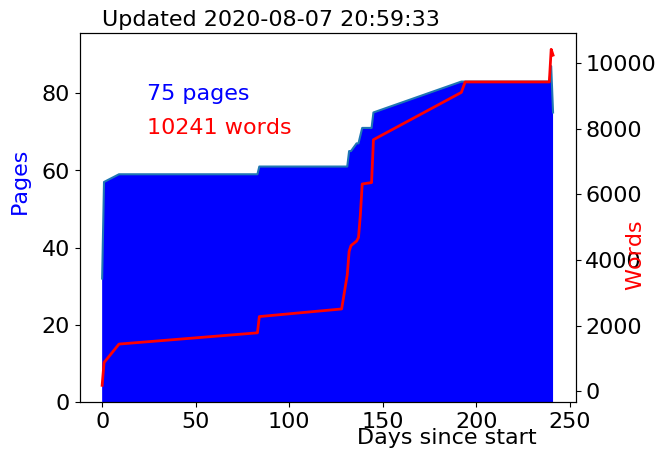
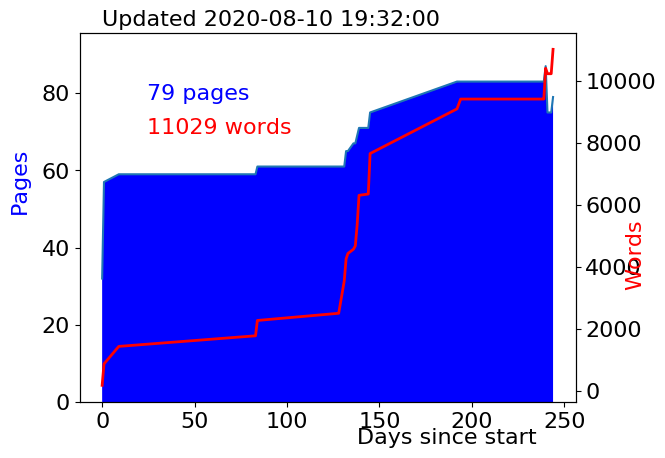
ID done, need to finish MS

diff --git a/Chapters/ATLAS.tex b/Chapters/ATLAS.tex
@@ -1,6 +1,6 @@
 \chapter{The ATLAS Detector}
 
-The \ac{ATLAS} detector is a cylindrical general purpose particle detector designed to measure the products of $\sqrt{s} = 14 \TeV$ proton-proton collisions at the \ac{LHC}. It consists of three major sub-detectors: closest to the beamline is the the \ac{ID}, which measures the trajectories of charge particles, followed by the Calorimeters, which measure the energies of electromagnetic and hadronically interacting particles, and finally the \ac{MS} which measures the trajectories of muons. The \ac{ID} is surrounded by a super conducting solenoidal magnet that provides a uniform $2\textrm{T}$ magnetic field, enabling measurement of particles' charge and momentum, and a toroidal magnet surrounds \ac{MS}, allowing for charge and momentum measurements of muons. In general, each subdetector consists of a barrel detector parallel to the beampipe and end-cap detectors perpendicular to the beampipe. \cite{atlas-overview}
+The \ac{ATLAS} detector is a cylindrical general purpose particle detector designed to measure the products of $\sqrt{s} = 14 \TeV$ proton-proton collisions at the \ac{LHC}. It consists of three major sub-detectors: closest to the beamline is the the \ac{ID}, which measures the trajectories of charge particles, followed by the Calorimeters, which measure the energies of electromagnetic and hadronically interacting particles, and finally the \ac{MS} which measures the trajectories of muons. The \ac{ID} is surrounded by a super conducting solenoidal magnet that provides a uniform $2$T magnetic field, enabling measurement of particles' charge and momentum, and a toroidal magnet surrounds \ac{MS}, allowing for charge and momentum measurements of muons. In general, each subdetector consists of a barrel detector parallel to the beampipe and end-cap detectors perpendicular to the beampipe. \cite{atlas-overview}
 
 A schematic of the \ac{ATLAS} detector is shown in \autoref{fig:atlas-schematic}.
 
@@ -30,12 +30,14 @@ A particle's momentum will generally be described in terms of its \pT, its momen
 
 %USED ATLAS-overview.pdf
 \section{Inner Detector}
-The Inner Detector measures the trajectories of charged particles resulting from \ac{LHC} collisions. The \ac{ID} covers the region with $|\eta| < 2.5$, measuring approximately $1000$ particles per bunch crossing. In order to achieve the momentum and vertex resolution required to achieve \ac{ATLAS}'s physics goals three subdetectors are used: the Pixel detector, the \ac{SCT}, and the \ac{TRT}. The Pixel and \ac{SCT} detectors are used for high granularity precision tracking and the \ac{TRT} is used to distinguish electrons from converted photons. All of this is immersed in a $2T$ magnetic field, curving charged particles in proportion to its momentum.
+The Inner Detector measures the trajectories of charged particles resulting from \ac{LHC} collisions. The \ac{ID} covers the region with $|\eta| < 2.5$, measuring approximately $1000$ particles per bunch crossing. In order to achieve the momentum and vertex resolution required to achieve \ac{ATLAS}'s physics goals three subdetectors are used: the Pixel detector, the \ac{SCT}, and the \ac{TRT}. The Pixel and \ac{SCT} detectors are used for high granularity precision tracking and the \ac{TRT} is used to distinguish electrons from converted photons. All of this is immersed in a $2$T magnetic field, curving charged particles in proportion to its momentum in the $\phi$ direction.
 
 \todo{describe conversions somewhere... Maybe in particle descriptions in theory?}
 
 
 The \pt resolution of the \ac{ID} scales with track \pt. Higher \pt tracks are less curved, so the measurement resolution is worse. In the \ac{ATLAS} \ac{ID}, the \pt resolution  $0.05\% \times \pt$ with a $1\%$ constant term. The constant term describes measurement uncertainties that do not scale with momentum or energy, such as material imperfections, non-uniform detector response, or other constant measurement issues and is added in quadrature ($\oplus$) with the stochastic term.
+
+The combination of thre three trackers with radii ranging from 32.33 mm to 1082mm enable robust and precise pattern recognition. The Pixel detector enables secondary vertex measurements, and combined with the \ac{SCT} enables impact parameter measurement and vertexing for heavy-flavor jet and $\tau$-lepton tagging. the The \ac{TRT} has lower precision per point, but measures a longer track and contributes signficantly to the momentum measurement.
 
 
 A schematic of the \ac{ID} can be seen in \autoref{fig:atlas-id} and a detailed distribution of the various subdetectors is shown in \autoref{fig:atlas-id-layers}. 
@@ -53,15 +55,35 @@ A schematic of the \ac{ID} can be seen in \autoref{fig:atlas-id} and a detailed 
 \begin{figure}[htbp]
 \centering
 \includegraphics[width=.8\textwidth]{figures/Detector/atlas-id-layers.png}
-\caption{A schematic of the \ac{ATLAS} \ac{ID} shown in the $r-z$ plane. \cite{id-cutaway}}
+\caption{A schematic of the \ac{ATLAS} \ac{ID} shown in the $R-z$ plane. \cite{id-cutaway}}
 \label{fig:atlas-id-layers}
 \end{figure}
 
+\subsection{Silicon Detectors}
+
+
+
 \subsection{The Pixel Detector}
-\subsubsection{Hit Reconstruction}
+
+The Pixel detector is the closest one to the beam and have the highest granularity. The pixels are arranged parallel to the beam axis in concentric cylindrical layers in the barrel and perpendicular to the beam axis on disks in the endcap regions. The current Pixel detector consists of the Run 1 detector with the \ac{IBL} installed closed to the beam pipe. 
+
+The Run 1 Pixel detector has 3 concentric cylindrical layers in the barrel and 3 disks in the endcap. It is composed of 1744 pixel sensors, each with 47232 pixels. Each pixel is identical has minimum size of $R-\phi \times z = 50 \times 400 \mu \textrm{m}^{2}$ (increasing to $R-\phi \times z = 50 \times 600 \mu \textrm{m}^{2}$ near a front-end chip). In the barrel, they have accuracy of $10 \mu \textrm{m}$ in $R-\phi$ and $115 \mu \textrm{m}$ in $z$, and in the endcaps they have accuracy of $10 \mu \textrm{m}$ in $R-\phi$ and $115 \mu \textrm{m}$ in $R$ and the detector has 80.4 million pixels and readout channels. 
+
+The \ac{IBL} is the inner most Pixel layer installed for Run 2 33.2 mm away from a new, narrower beampipe. A closer detector layer enables better impact parameter resolution as well as providing extra radiation shielding for the former closest Pixel layer (called the B-layer). The \ac{IBL} is composed of 12 million smaller pixels, $R-\phi \times z = 50 \times 250 \mu \textrm{m}^{2}$, assembled on 14 staves, with a resolution of $8 \mu\textrm{m}$ in $R-\phi$ and $40 \mu\textrm{m}$.
+
+The two innermost detectors, the Pixel and \ac{SCT} detectors, are made of silicon, the preferred tracking medium of particle physics detectors. The \ac{ATLAS} pixels are n-type semiconductors (impurities have been added to increase the number of potential electron charge carriers) with a voltage applied (150-600V in the Pixel detector).  When a charged particle interacts with a silicon detector layer, electron-hole pairs are created and these pairs drift toward the readout chips in the magnetic field. If enough of these pairs are created such that the signal becomes greater than a pre-specified noise threshold, the signal is readout as a \emph{hit}. A particle must have 3.6 eV to induce about 80 electron-hole pairs per $\mu$m. Pixels provide a high signal-to-noise ratio, and so are preferred in regions where high occupancy is possible (such as close to the beamline). \cite{silicon} 
+
 \subsection{The Silicon Microstrip Tracker}
-\subsubsection{Hit Reconstruction}
+A particle moving through the \ac{SCT} crosses 4 bilayers of the detector creating 4 hit measurements as it interacts with 8 layers of material. In the barrel, each bilayer is composed of 2 stereostrips, one parallel to the beam axis (measuring $R-\phi$) and the other rotated by 40 mrad. The combination of the stereostrips in the bilayer gives a 3-dimensional measurement. In the end caps, the bilayers are arranged on 9  disks per side such that the second layer is offset 40mrad from a radial strip. The strips are 12cm long and $80 \mu\textrm{m}$ thick.
+
+Less precise than the Pixels, in the barrel region, they have accuracy of $17 \mu \textrm{m}$ in $R-\phi$ and $580 \mu \textrm{m}$ in $z$, and in the endcaps they have resolution of $17 \mu \textrm{m}$ in $R-\phi$ and $580 \mu \textrm{m}$ in $R$. The use of strips instead of pixels reduces the number of readout channels as well as the cost: there are 15192 sensors each with 768 strips with an applied voltage of 150-300V and 6.3 million readout channels 
+ 
+
 \subsection{The Transition Radiation Tracker}
+The \ac{TRT} is straw-tube tracker that extends the tracking volume by almost 500 mm without the cost of that much additional silicon. The tubes have a diameter of 4mm and made of Kapton and carbon fibers. They are filled with a gas mixture (70\% Xe, 27\% CO$_{2}$, and 3\% O$_{2}$) and a 31 $\mu$m diameter gold-plated tungsten wire. The wires are divided into two halves about $\eta = 0$. In the barrel, 52 544 straws are parallel to the beam axis and 144 cm long. In the endcaps, 122 880 37 cm long straws are arranged radially in wheels. The \ac{TRT} has 351,000 readout channels.
+
+When a charged particle passes through the tube, the gas is ionized and the resulting free electrons drift toward the wire where they are amplified then readout. A particle passing through the \ac{TRT} typically leaves 36 hits. The \ac{TRT} only provides $R-\phi$ measurements with an accuracy of $130 \mu\textrm{m}$ per straw. However, its length improves measured momentum resolution and it also can provide ns-level timing information.
+
 
 \subsection{Solenoid Magnet}
 
@@ -111,7 +133,7 @@ The \ac{FCAL} is measures  both \ac{EM} and hadronic energy and extends coverage
 
 
 \section{Muon Spectrometer}
-The Muon Spectrometer is the outermost subdetector designed to measure muons, which are too massive to be stopped by the \ac{LAr}. The \ac{MS} relies on a toroidal magnet system which enables high precision tracking in the three precision layers. Together, these give a constant momentum resolution of $10\%$ at $\pT > 1 \TeV$ \footnote{At high \pt, the \ac{MS} performance is independent of the \ac{ID} resolution.} and separate chambers, with timing resolution of $1.5-4 \textrm{ns}$, are used for triggering.  
+The Muon Spectrometer is the outermost subdetector designed to measure muons, which are too massive to be stopped by the calorimeters. The \ac{MS} relies on a toroidal magnet system which enables high precision tracking in the three precision layers. Together, these give a constant momentum resolution of $10\%$ at $\pT > 1 \TeV$ \footnote{At high \pt, the \ac{MS} performance is independent of the \ac{ID} resolution.} and separate chambers, with timing resolution of $1.5-4 \textrm{ns}$, are used for triggering.  
 
 \ac{MDT}s are used for precision tracking in the $\eta$ coordinate in the range $|\eta| < 2.7$, except in the inner most layer where the \ac{MDT}s extend only to $|\eta| < 2.0$ and \ac{CSC}s cover the region $2.0|\eta| < 2.7$. Triggering and $\phi$ measurements are provided by \ac{RPC}s in the range $|\eta| < 1.05$ and \ac{TGC}s in $1.05 |\eta| < 2.7$. A schematic of the \ac{MS} can be seen in \autoref{fig:atlas-ms}.  
 
@@ -126,6 +148,13 @@ The Muon Spectrometer is the outermost subdetector designed to measure muons, wh
 \label{fig:atlas-ms}
 \end{figure}
 
+
+\begin{figure}[htbp]
+\centering
+\includegraphics[width=.8\textwidth]{figures/Detector/mdt-t0.png}
+\caption{A distribution of \ac{MDT} time measurements. The $t_{0}$ is the time between 0 and the peak of the distribution, shown by the leftmost red line. The rightmost red line indicates $t_{\textrm{max}}$, the end of the \ac{MDT} signal.}
+\label{fig:particle-doodles}
+\end{figure}
 
 
 

diff --git a/Chapters/EventReconstruction.tex b/Chapters/EventReconstruction.tex
@@ -46,7 +46,6 @@ An optional third step of the tracking chain, it uses the same \emph{inside-out}
 \begin{table}
 \centering
 \begin{tabular}{lcc}
-\hline
 Cut & \ac{ST} & \ac{LRT}  \\
 \hline
 $d_{0}^{\textrm{max}}$ (mm)   & 10   & 300 \\
@@ -84,7 +83,7 @@ Min number of silicon hits   & 7     & 7 \\
 
 Kalman filters are widely used across LHC experiments for track fitting. It is a recursive algorithm that allows the user to efficiently extrapolate from a track seed. In the sequential, or extended, Kalman filter, uses a linear approximation to the track path. It makes a prediction for the next layer of detector material based on the seed, and then looks for a hit in that region. At each step, it updates the linearization to improve the measurement for the next step, where each measurement is weighted by its certainty. \ac{LRT} uses this approach.
 
-In \ac{ST}, a combinatorial Kalman filter is used. This method employs several Kalman filters running in parallel and allows for the assumption that the measurement in the next layer is not necessarily assumed to be part of the track that formed the seed (as is often the case in the dense environment of the \ac{ATLAS} \ac{ID}). At each successive layer in track finding, several branches are extended if several measurements can be found in the same layer. The update of the linearization is done independently for each branch, and branches are created for missing measurements to account for detector inefficiencies. The branch is extended to the next layer if a measurement is found, and the process is repeated. Branches with no measurement for several layers are removed, and at the end, the branch with the best quality is selected. This process allows for parallelization of a complex combinatorial process. 
+In \ac{ST}, a combinatorial Kalman filter is used. This method employs several Kalman filters running in parallel and allows for the assumption that the measurement in the next layer is not necessarily assumed to be part of the track that formed the seed (as is often the case in the dense environment of the \ac{ATLAS} \ac{ID}). At each successive layer in track finding, several branches are extended if several measurements can be found in the same layer. The update of the linearization is done independently for each branch, and branches are created for missing measurements to account for detector inefficiencies. The branch is extended to the next layer if a measurement is found, and the process is repeated. Branches with no measurement for several layers are removed, and at the end, the branch with the best quality is selected. This process allows for parallelization of a complex combinatorial process. \cite{kalman-filter} 
 
 The Kalman filter works well for tracking in environments such as \ac{ATLAS} because even though it is computationally intensive, it generally gives the best precision.
 
@@ -95,7 +94,7 @@ The Kalman filter works well for tracking in environments such as \ac{ATLAS} bec
 
 A Hough transform is a pattern recognition algorithm that is useful for identifying a particular signature that can be described in a known parametric form. It performs well in noisy environments and is tolerant of holes in the signature. In relies on a transformation from physical to parameter space. Each point in physical space maps to a line in parameter space, and the intersection of the parameter space lines gives the values of constants of the parametric form. 
 
-For example, if the pattern being searched for is a line described by $y = mx + b$, a Hough transform maps from $x-y$ space to $m-b$ space. Each point $(x_i, y_i)$ in the original image maps to a line in parameter space. If all $(x_i, y_i)$ are plotted together, the intersections of the lines in parameter space at $(m_i, b_i)$ define lines in physical space with parameters $m_i$ and $b_i$. 
+For example, if the pattern being searched for is a line described by $y = mx + b$, a Hough transform maps from $x-y$ space to $m-b$ space. Each point $(x_i, y_i)$ in the original image maps to a line in parameter space. If all $(x_i, y_i)$ are plotted together, the intersections of the lines in parameter space at $(m_i, b_i)$ define lines in physical space with parameters $m_i$ and $b_i$. \cite{hough-transform}
 
 The Hough transform is a \emph{pattern finding} algorithm, not a tracking algorithm. Is not ideal for full \ac{ID} tracking, because its complexity grows exponentially with the number of dimensions and the form of the pattern must be known \emph{a priori}.
 

diff --git a/Chapters/LLPs.tex b/Chapters/LLPs.tex
@@ -75,7 +75,7 @@ It is often convenient to use \dzero, the transverse impact parameter, as a way 
 \centering
 \includegraphics[width=.48\textwidth]{figures/theory/signal_d0.pdf}
 \includegraphics[width=.48\textwidth]{figures/theory/signal_rxy.pdf}
-\caption{\dzero (left) and transverse decay radius ($x-y$) of \ac{LLP}s with different $\tau$. The left plot demonstrates that while \dzero does not directly give information about $\tau$, decay products of particles with longer lifetimes have wider \dzero distributions. These plots demonstrate only effects of the physical processes, not convolved with reconstrution effects.}
+\caption{\dzero (left) and transverse decay radius ($x-y$) of \ac{LLP}s with different $\tau$. The left plot demonstrates that while \dzero does not directly give information about $\tau$, decay products of particles with longer lifetimes have wider \dzero distributions. These plots are made at truth level.}
 \label{fig:d0-rltns}
 \end{figure}
 

diff --git a/FrontBackMatter/Titlepage.tex b/FrontBackMatter/Titlepage.tex
@@ -10,7 +10,7 @@
 \vfill
 
 \begingroup
-\color{Maroon}\spacedallcaps{\myTitle} \\ \bigskip % Thesis title
+\spacedallcaps{\myTitle} \\ \bigskip % Thesis title
 \endgroup
 
 \spacedlowsmallcaps{\myName} % Your name

diff --git a/scripts/pages.md b/scripts/pages.md
@@ -258,3 +258,11 @@
 + [2020-08-07-20h42m12s] 75 10241
 + [2020-08-07-20h43m18s] 75 10241
 + [2020-08-07-20h59m33s] 75 10241
++ [2020-08-08-11h32m19s] 75 10241
++ [2020-08-10-14h13m35s] 76 10234
++ [2020-08-10-16h52m32s] 77 10601
++ [2020-08-10-18h09m23s] 77 10644
++ [2020-08-10-18h48m27s] 78 10862
++ [2020-08-10-19h12m35s] 78 10992
++ [2020-08-10-19h31m46s] 78 11029
++ [2020-08-10-19h32m00s] 79 11029
